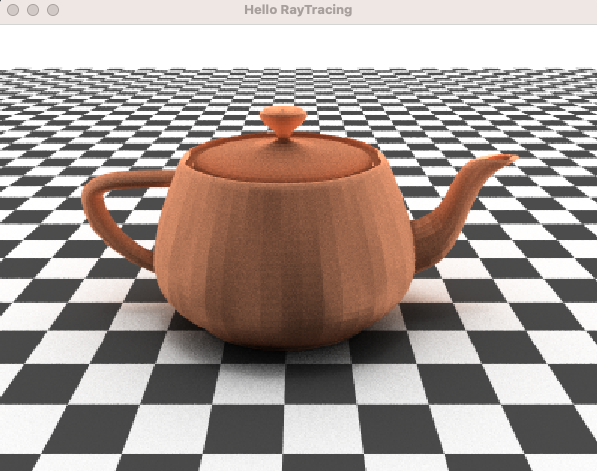
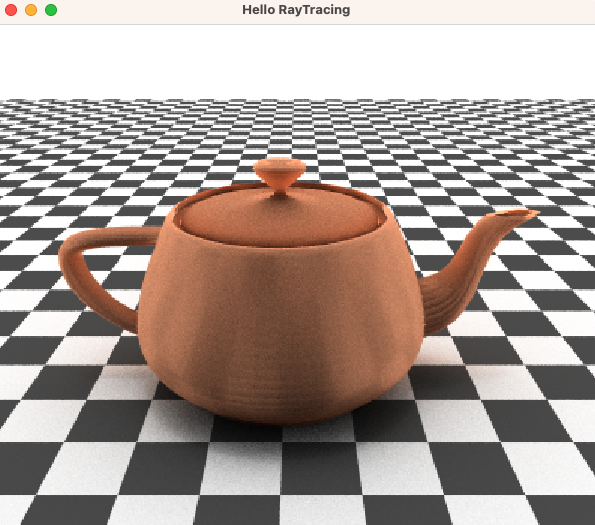
teapot metal rendering

diff --git a/example/stl_loader.cpp b/example/stl_loader.cpp
@@ -12,7 +12,7 @@ std::vector<Triangle> load_stl_ascii( std::ifstream &ifs )
   throw std::runtime_error("ASCII STL is not supported yet");
   return {};
 }
-std::vector<Triangle> load_stl_binary( std::ifstream &ifs )
+std::vector<Triangle> load_stl_binary( std::ifstream &ifs, bool vertex_normal )
 {
   ifs.seekg( 80, std::ios::beg );
   uint32_t triangle_count;
@@ -31,9 +31,66 @@ std::vector<Triangle> load_stl_binary( std::ifstream &ifs )
     triangles[i].n0 = triangles[i].n1 = triangles[i].n2 = normal;
     ifs.seekg( 2, std::ios::cur );
   }
-  return triangles;
+
+  if( vertex_normal == false ){ return triangles; }
+
+  // for vertex-normals
+  std::vector< std::pair<vec3,vec3> > vertex_normals;
+  vertex_normals.reserve( triangles.size() * 3 );
+  for( auto &t : triangles )
+  {
+    vertex_normals.push_back( std::make_pair( t.p0, t.n0 ) );
+    vertex_normals.push_back( std::make_pair( t.p1, t.n1 ) );
+    vertex_normals.push_back( std::make_pair( t.p2, t.n2 ) );
+  }
+
+  std::vector<Triangle> new_triangles = triangles;
+  for( int i=0; i<new_triangles.size(); ++i )
+  {
+    vec3 normal = vec3::Zero();
+    int cnt = 0;
+    for( auto const& vn : vertex_normals )
+    {
+      if( (new_triangles[i].p0-vn.first).squaredNorm() < 1e-6 )
+      {
+        normal += vn.second;
+        ++cnt;
+      }
+    }
+    new_triangles[i].n0 = normal / cnt;
+
+    normal = vec3::Zero();
+    cnt = 0;
+    for( auto const& vn : vertex_normals )
+    {
+      if( (new_triangles[i].p1-vn.first).squaredNorm() < 1e-6 )
+      {
+        normal += vn.second;
+        ++cnt;
+      }
+    }
+    new_triangles[i].n1 = normal / cnt;
+
+    normal = vec3::Zero();
+    cnt = 0;
+    for( auto const& vn : vertex_normals )
+    {
+      if( (new_triangles[i].p2-vn.first).squaredNorm() < 1e-6 )
+      {
+        normal += vn.second;
+        ++cnt;
+      }
+    }
+    new_triangles[i].n2 = normal / cnt;
+
+    new_triangles[i].n0.normalize();
+    new_triangles[i].n1.normalize();
+    new_triangles[i].n2.normalize();
+  }
+
+  return new_triangles;
 }
-std::vector<Triangle> load_stl( std::string const& filename )
+std::vector<Triangle> load_stl( std::string const& filename, bool vertex_normal )
 {
   std::ifstream ifs( filename, std::ios::binary );
   char first_five_bytes[5];
@@ -44,7 +101,7 @@ std::vector<Triangle> load_stl( std::string const& filename )
   {
     // binary
     ifs = std::ifstream( filename, std::ios::binary );
-    return load_stl_binary( ifs );
+    return load_stl_binary( ifs, vertex_normal );
   }
   ifs = std::ifstream( filename );
   return load_stl_ascii( ifs );

diff --git a/example/teapot_world.hpp b/example/teapot_world.hpp
@@ -84,11 +84,11 @@ public:
     this->insert( {&geometries.floor2, &reflections.floor} );
     for( auto &t : geometries.teapot )
     {
-      this->insert( {&t, &reflections.diffusive} );
+      this->insert( {&t, &reflections.mirror} );
     }
-    reflections.fuzzy_mirror.fuzzyness = 0.3f;
-    reflections.fuzzy_mirror.sample_count = 10;
-    reflections.fuzzy_mirror.color = vec3(1.2f,0.8f,0.6f);
+    reflections.fuzzy_mirror.fuzzyness = 0.03f;
+    reflections.fuzzy_mirror.sample_count = 3;
+    reflections.fuzzy_mirror.color = vec3(0.8f,0.8f,0.8f);
 
     reflections.combine.r1 = &reflections.water_refragtion;
     reflections.combine.r2 = &reflections.diffusive;
@@ -108,7 +108,7 @@ public:
     reflections.water_refragtion.color = eh::vec3( 0.6f, 0.8f, 1.0f );
     reflections.water_refragtion.index = 0.85f;
 
-    reflections.mirror.color = eh::vec3( 1.0f, 1.0f ,1.0f );
+    reflections.mirror.color = eh::vec3( 0.8f, 0.8f ,0.8f );
 
     reflections.floor_diffuse.sample_count = 10;
     reflections.floor_diffuse.color = vec3(1,1,1);

diff --git a/src/reflection.cpp b/src/reflection.cpp
@@ -29,7 +29,7 @@ vec3 FuzzyMirrorReflection::get_color( Ray const& r, RayHit const& hit, World &w
 
     Ray newray( hit.point(r), (x*unitx+y*unity+z*reflection).normalized(), r.thread_id );
     newray.bounce = r.bounce + 0.3;
-    if( newray.direction().dot(hit.normal) < 0 ){ continue; }
+    // if( newray.direction().dot(hit.normal) < 0 ){ continue; }
 
     ++cnt;
     color += w.get_color(newray);

diff --git a/example/stl_loader.hpp b/example/stl_loader.hpp
@@ -2,9 +2,10 @@
 
 #include <geometry.hpp>
 #include <vector>
+#include <string>
 
 namespace eh
 {
-  std::vector<Triangle> load_stl( std::string const& filename );
+  std::vector<Triangle> load_stl( std::string const& filename, bool vertex_normal=false );
   void write_stl( std::string const& filename, std::vector<Triangle> const& triangles );
 }

diff --git a/README.md b/README.md
@@ -7,8 +7,13 @@ This project is using [Eigen3](https://eigen.tuxfamily.org/) as linear algebra, 
 ## Examples
 ### Utah Teapot with Diffusive Reflection
 9400+ triangles
+
 ![teapot](results/teapot_diffusive_reflection.png)
 
 ### Utah Teapot with Water Refraction
 ![teapot](results/teapot_water_refraction.png)
+
+### Utah Teapot with Metal Reflection
+![teapot](results/teapot_metal.png)
+
 ![ResultB](results/resultB.png)
